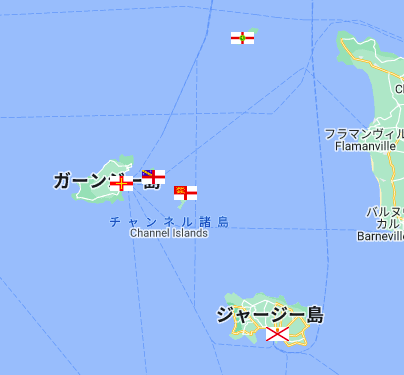
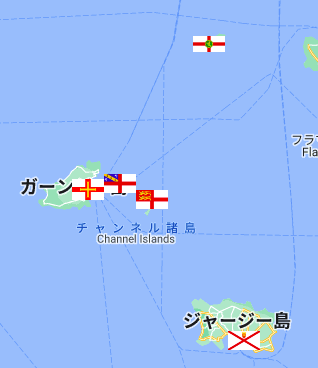
update

diff --git a/national_flags_gmap/crown_dependencies/python/json2kml.py b/national_flags_gmap/crown_dependencies/python/json2kml.py
@@ -49,14 +49,13 @@ with open('crown_dependencies_coordinates.json') as f3:
         lat = item['lat']
         lon = item['lon']
         url_flag = item['url_flag']
-        url_flag_icon = item['url_flag_icon']
-        print(    island)
+        print(island)
         desc = TEMPLATE_DESCRIPTION.format(url_country=url_island, country=island)
         id_island = urllib.parse.quote( island.lower().replace(SPACE, UNDERBAR) )
         style_url = TEMPLATE_STYLE_URL.format(id=id_island)
         placemark = template_placemark.format(name=island, description=desc,  lat=lat,  lon=lon, altitude=ALTITUDE,  style_url =  style_url)
         print( placemark)
-        style = template_style.format(id=id_island, href=url_flag_icon)
+        style = template_style.format(id=id_island, href=url_flag)
 
         placemarks += placemark
         styles += style

diff --git a/national_flags_gmap/crown_dependencies/README.md b/national_flags_gmap/crown_dependencies/README.md
@@ -9,7 +9,7 @@ create KML file from JSON file
 
 import KML file to Mymap
 
-[mymaps: Crown Dependencies](https://www.google.com/maps/d/viewer?mid=1ZVuJVFlWmUGb6ozsHu4cSKrixTyDBws&ll=51.435898456958114%2C-3.29600000000001&z=4
+[mymaps: Crown Dependencies](https://www.google.com/maps/d/viewer?mid=1QZhJDMkfPVLWNL8EdoULAmolxse4u1w&ll=52.65889647239251%2C-9.418019096418995&z=4)
 
 display the Flag at the Coordinates of Islands on Google Map
 
